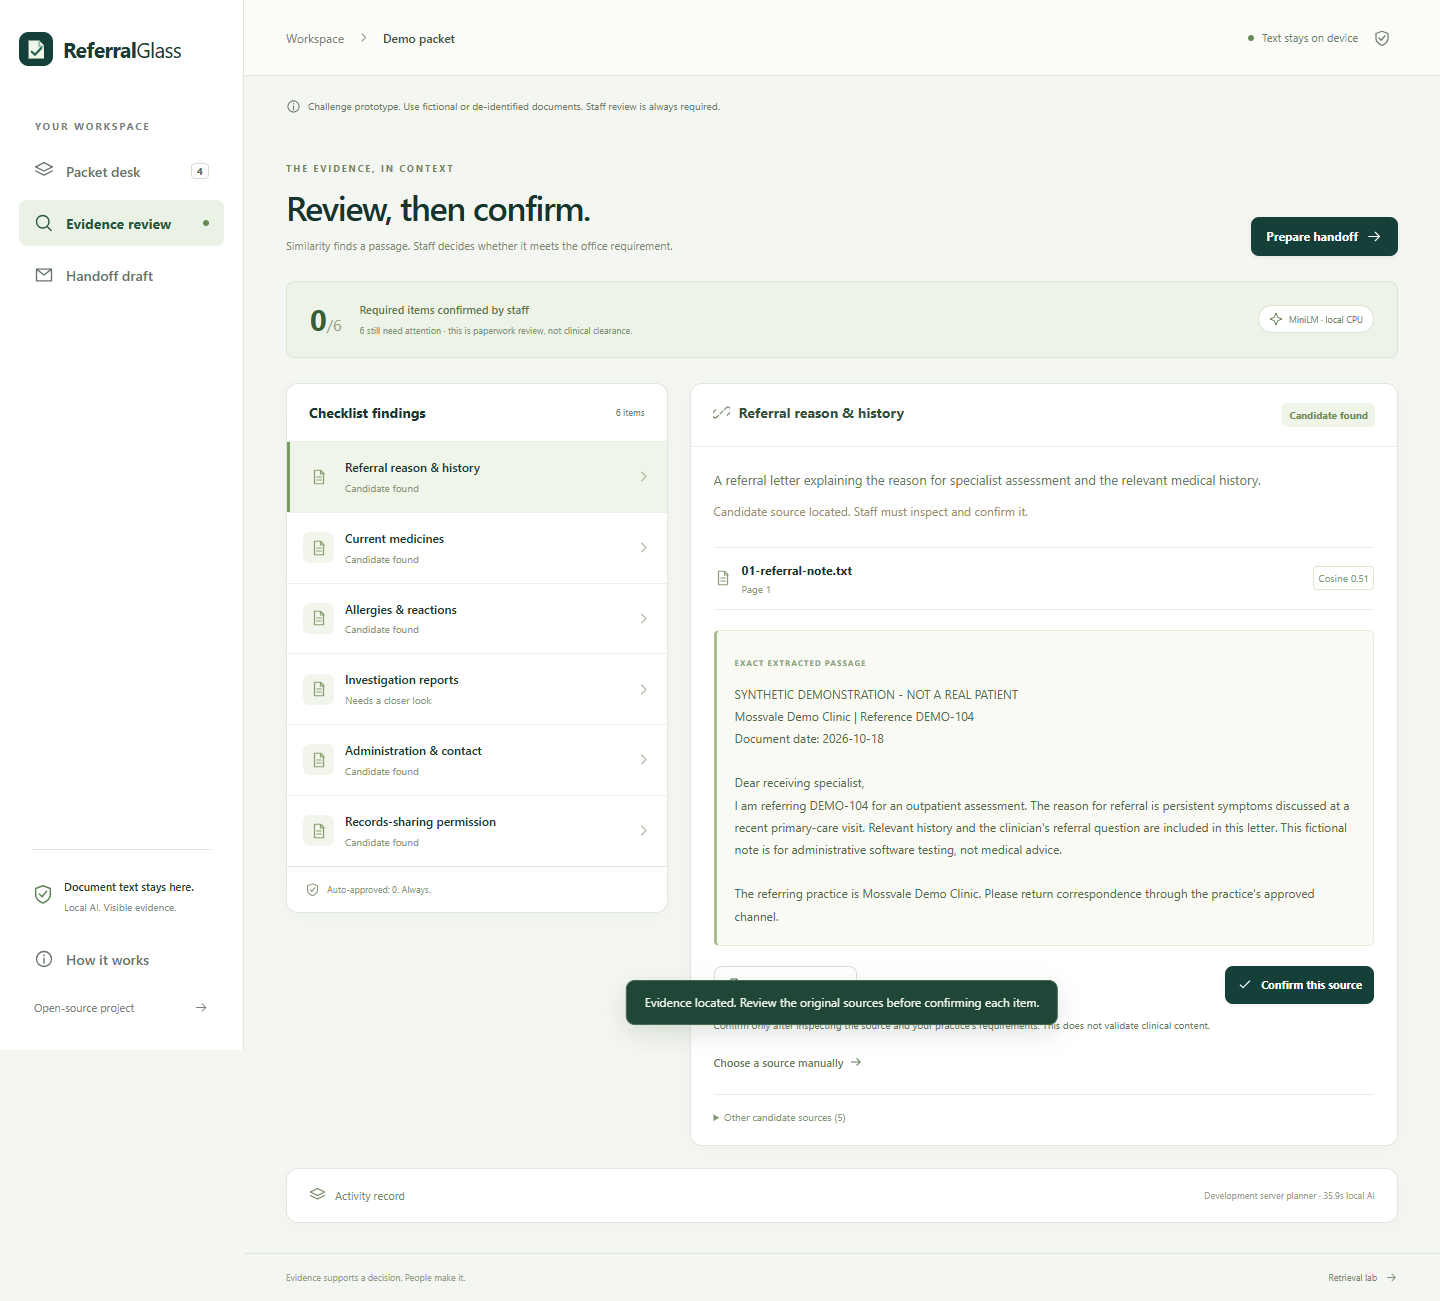
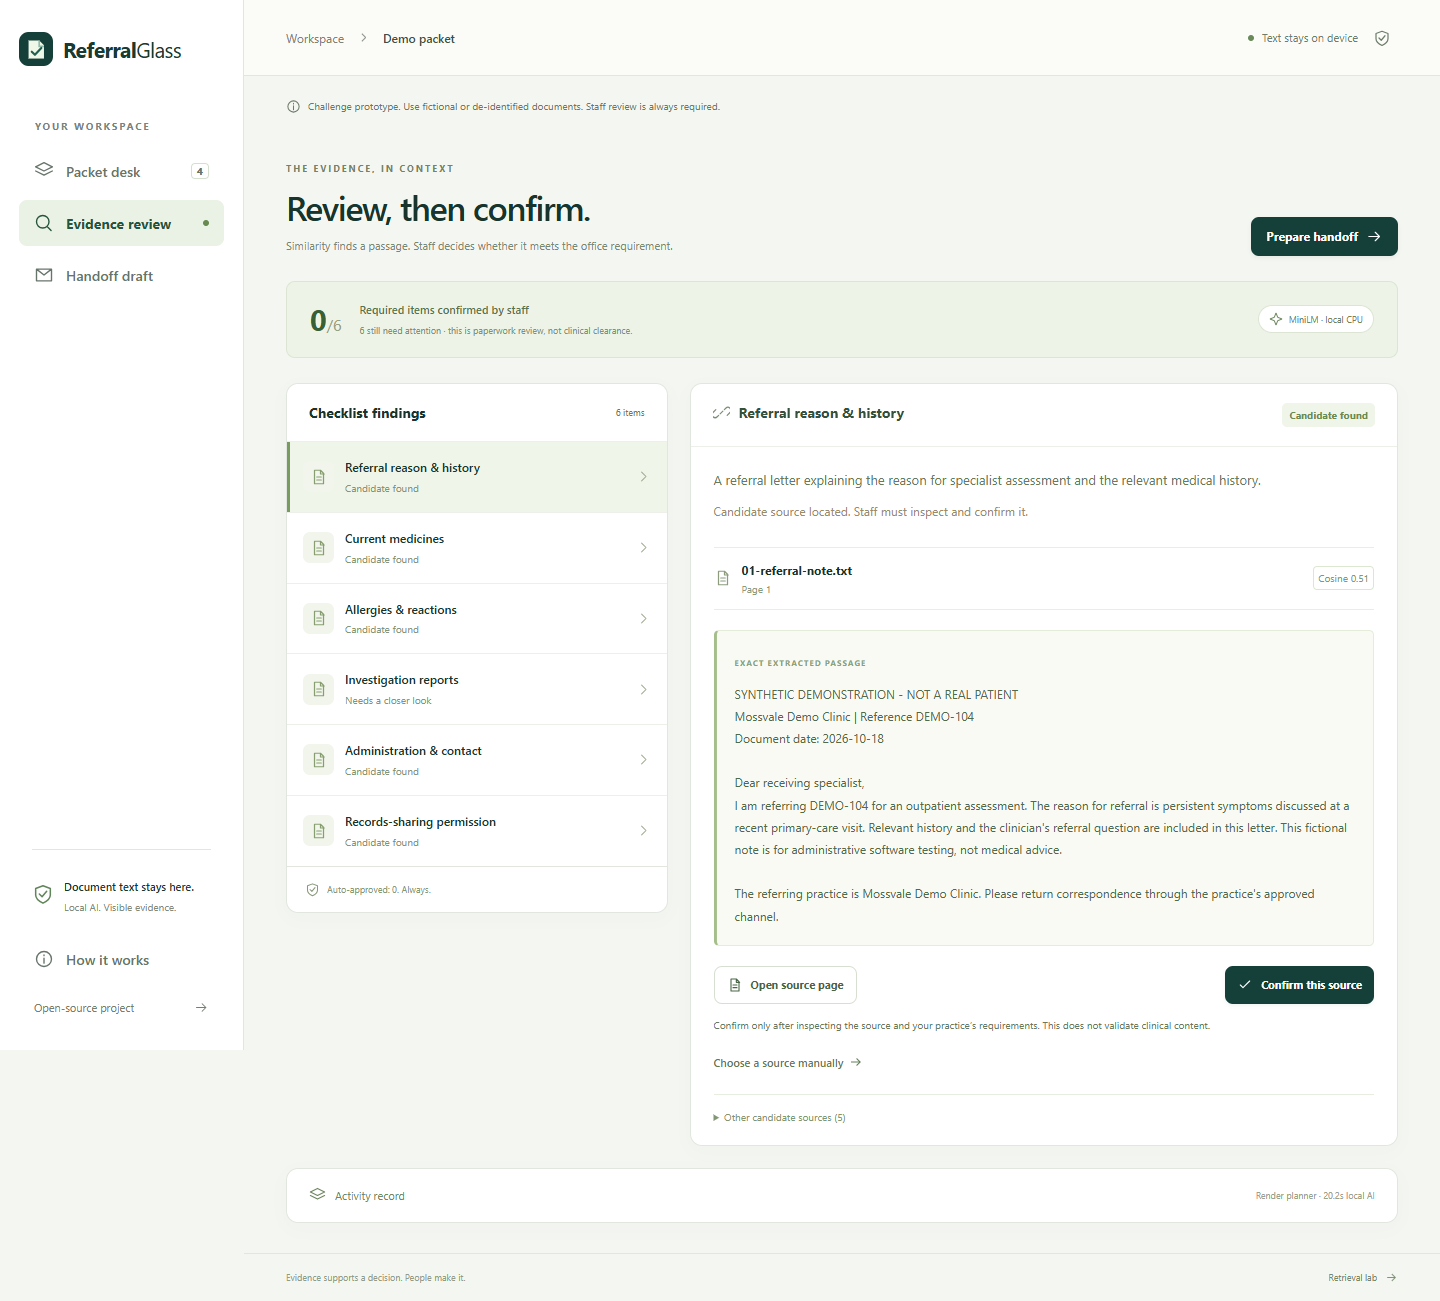
Document verified Render deployment and live screenshots [skip ci]

Changed region(s): [[0.4375, 0.7379, 0.75, 0.7994], [0.8438, 0.8916, 0.875, 0.9224]]

diff --git a/docs/submission.md b/docs/submission.md
@@ -48,7 +48,7 @@ The live version runs on Render's free web-service plan. It may take a little ti
 4. Inspect the other source pages and confirm them. Each confirmation requires an acknowledgement that the passage belongs to this packet and meets this office's requirement.
 5. Open **Prepare handoff**. The missing-paperwork request follows the staff decisions. Save the source-linked JSON or print/save a PDF locally.
 
-![Real evidence review showing exact extracted passages and source-page controls](https://raw.githubusercontent.com/faraz-shamim/referralglass/main/docs/referralglass-evidence.png)
+![Real evidence review showing the pending investigation-report passage and its source-page controls](https://raw.githubusercontent.com/faraz-shamim/referralglass/main/docs/referralglass-pending.png)
 
 The original-page viewer makes extraction checkable. The bundled two-page sample PDF also gives you a safe way to try real PDF import and scan reading. Every example is explicitly fictional.
 
@@ -123,7 +123,7 @@ The aggregate is a tie. MiniLM finds one paraphrased referral example that the l
 
 This is a small software fixture, not clinical accuracy or evidence of better real-world performance. It supports keeping alternatives and manual source selection available, and keeping human confirmation mandatory.
 
-The repository also includes **24 passing unit/API tests** and a [full browser report](https://github.com/faraz-shamim/referralglass/blob/main/docs/browser-qa.json). The browser checks use actual local embeddings, real PDF parsing, actual English OCR, source confirmations, JSON and A4 PDF exports, mobile layouts, and offline reload. A unique synthetic private marker never appears in outgoing request URLs or bodies. Staff actions are automated with fictional records; clipboard behavior is stubbed during the test.
+A [fresh Linux GitHub Actions run](https://github.com/faraz-shamim/referralglass/actions/runs/39104148344) passed the build and the complete software checks. The repository includes **24 passing unit/API tests** and **26 passing browser checks** in the [full browser report](https://github.com/faraz-shamim/referralglass/blob/main/docs/browser-qa.json). The browser checks use actual local embeddings, real PDF parsing, actual English OCR, source confirmations, JSON and A4 PDF exports, mobile layouts, and offline reload. A unique synthetic private marker never appears in outgoing request URLs or bodies. Staff actions are automated with fictional records; clipboard behavior is stubbed during the test.
 
 ## Why Does Open Innovation Matter?
 

diff --git a/README.md b/README.md
@@ -12,7 +12,7 @@ This is an administrative challenge prototype. Use fictional or de-identified do
 
 ## Try the complete workflow
 
-1. Open the deployed app (the verified URL is recorded in [deployment.json](docs/deployment.json)), or run it locally below.
+1. Open [the live app](https://referralglass.onrender.com/) ([verified deployment](docs/deployment.json)), or run it locally below.
 2. Choose **Try a sample packet**. Four fictional files contain six pages; the investigation report is explicitly pending.
 3. Choose **Find evidence**, consent to the generic model download, and let MiniLM run on your browser CPU.
 4. Inspect candidate quotes, alternatives and original pages. The pending-report mention cannot be confirmed as supplied paperwork. Other passages require an explicit staff acknowledgement.
@@ -79,6 +79,7 @@ Production listens on `PORT` (default 4176), binds `0.0.0.0`, serves the compres
 ## Verify it
 
 - [Unit and API tests](tests): source fidelity, tamper detection, date/absence handling, unsafe text, API bounds and valid compressed MIME types.
+- [Live Render checks](docs/live-qa.json) verify the deployed commit, genuine browser inference, Render planning, PDF/OCR and JSON export.
 - [Browser QA report](docs/browser-qa.json): real local model, PDF import, real English OCR, source review, exports, mobile layouts, network-marker checks and offline reload. All records and staff actions in this test are synthetic/automated. The clipboard API is stubbed, and actual A4 PDF generation is checked separately from the print-button stub.
 - [Fixed 24-case retrieval report](docs/retrieval-benchmark.json): semantic retrieval **21/24**, TF-IDF cosine **21/24**. The methods make different errors; the aggregate is a tie. This small software fixture is not clinical accuracy, production readiness, measured office time saved, or proof of superiority over keyword search. The corpus was fixed before its first model run; the published labels/results were not altered to improve the score.
 
